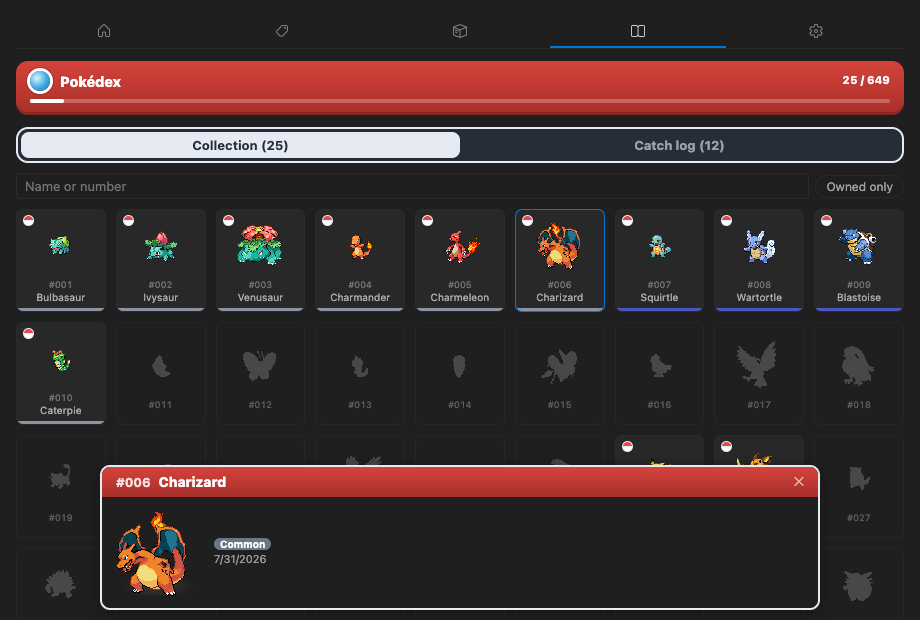
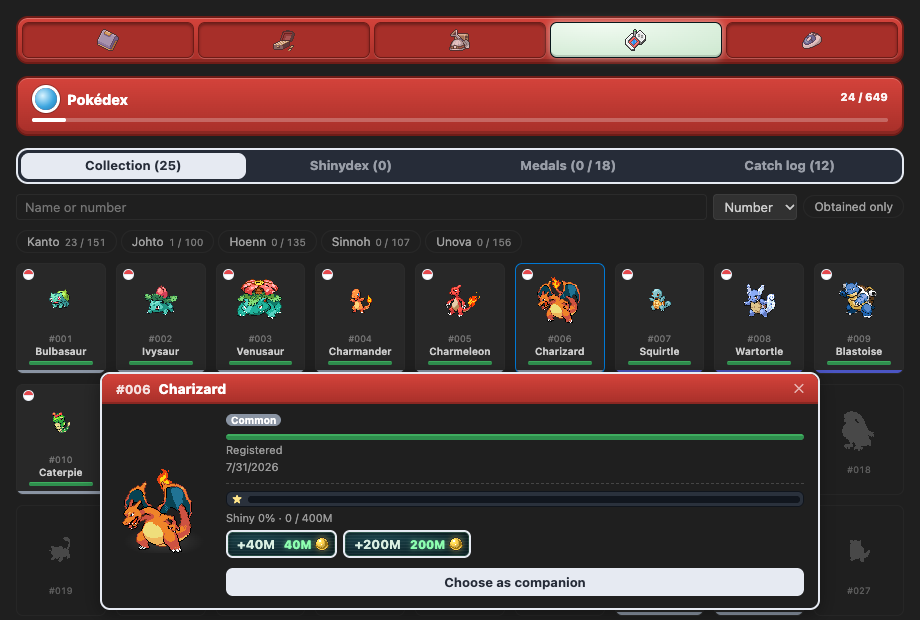
📝 Describe the species registry, the chosen companion and the unified panel in the README and walkthrough, with fresh shots

diff --git a/README.md b/README.md
@@ -29,19 +29,23 @@
 
 You already burn millions of tokens a day in Claude Code, Codex, Gemini and friends.
 **Tokendex reads those local logs — nothing is uploaded, ever — and turns the spend you
-already made into a game**: an egg incubates on real work, hatches into a companion that
-evolves through its actual evolution line, and wild Pokémon walk into your editor as you
-code. Throw a ball. Watch the wobbles. Fill the Pokédex.
+already made into a game**: pick a starter, and every token it sees is experience that
+registers its species and evolves it through its actual evolution line, while wild Pokémon
+walk into your editor as you code. Throw a ball. Watch the wobbles. Fill the Pokédex.
 
 Underneath the game sits a precise, fast usage tracker: today's tokens and cost, this
 month's, official rate-limit windows as live bars, and a per-CLI breakdown with burn rate.
 
 ## The game
 
-- 🥚 **Hatch** — your egg incubates on real token spend (5M to hatch), then evolves through
-  its species' real evolution line, stage by stage, until it graduates into your Pokédex.
-- 🎯 **Catch** — wild Pokémon appear as you work (the first after just 500k tokens), with
-  item finds — balls and berries — turning up between them. Up to 30 wait in a quiet queue: a
+- 📈 **Raise** — choose a starter from generations 1–5, then any species you have obtained
+  or an egg (a free one a day, up to three; 5M tokens to hatch). The tokens your companion
+  sees fill its species' bar: a full bar registers it in the Pokédex and evolves it into the
+  next form, and you can always go back to an earlier one. A full Pokédex is a road of one to
+  two years for an average user, with medals, regions and daily challenges along the way.
+- 🎯 **Catch** — wild Pokémon, evolved forms included, appear as you work (the first after
+  just 500k tokens); a first catch fills 5% of the species' bar, a duplicate pays tokens. With
+  item finds — balls and berries — turning up between them, up to 30 wait in a quiet queue: a
   badge counts them, and only a shiny, a legendary or a full queue ever toasts. Never an
   interruption.
 - 🧠 **Read the Pokémon** — every wild Pokémon has a nature and a temperament drawn from its
@@ -52,22 +56,24 @@ month's, official rate-limit windows as live bars, and a per-CLI breakdown with 
   computed with the Gen-IV catch formula on the species' true capture rate, and the scene says
   what a miss risks. A legendary that gets away leaves tracks you can follow for a few days —
   for a price.
-- ✨ **Get lucky** — shinies (1/64, better with the Shiny Charm), natures, a Ditto that
-  reveals itself mid-evolution, and guaranteed-tier eggs.
+- ✨ **Go shiny** — a registered species keeps earning toward its shiny form (tokens can buy
+  up to half the way), a wild or hatched shiny (1/64, better with the Shiny Charm) is one at
+  once, and a Shinydex counts them. A lure brings a species you have seen into the wild for a
+  day.
 - 🛍 **Spend what you earned** — the tokens you burn are also your wallet: Poké, Great,
-  Ultra and Master Balls and berries (ten-packs at 10% off), Rare Candy, Mints, the Shiny Charm.
-  A single ball or berry is one click; packs, eggs and the Master Ball ask first.
+  Ultra and Master Balls and berries (ten-packs at 10% off), eggs, Rare Candy, Mints, the Shiny
+  Charm. A single ball or berry is one click; packs, eggs and the Master Ball ask first.
 
 <div align="center">
 
-|                                                                                                      Raise                                                                                                      |                                                                                           Shop                                                                                           |                                                                      Your trainer                                                                       |
-| :-------------------------------------------------------------------------------------------------------------------------------------------------------------------------------------------------------------: | :--------------------------------------------------------------------------------------------------------------------------------------------------------------------------------------: | :-----------------------------------------------------------------------------------------------------------------------------------------------------: |
-| <img src="media/readme/home.png" width="260" alt="Home: your trainer and an Eevee companion on the battle field, its evolution progress, the road to the next encounter, usage totals and official limit bars"> | <img src="media/readme/shop.png" width="260" alt="The shop: Poké, Great, Ultra and Master Balls and berries, singly or in ten-packs at 10% off, priced in the tokens you already spent"> | <img src="media/readme/settings.png" width="260" alt="Settings: language, how often usage is re-read, and your trainer picked from 28 classic sprites"> |
+|                                                                                                                        Raise                                                                                                                         |                                                                                           Shop                                                                                           |                                                                      Your trainer                                                                       |
+| :--------------------------------------------------------------------------------------------------------------------------------------------------------------------------------------------------------------------------------------------------: | :--------------------------------------------------------------------------------------------------------------------------------------------------------------------------------------: | :-----------------------------------------------------------------------------------------------------------------------------------------------------: |
+| <img src="media/readme/home.png" width="260" alt="Home: the Pokédex lid with today's usage and the balance, your trainer and an Eevee companion with its experience bar and evolution line, and drawers for the incubator, the wild and the streak"> | <img src="media/readme/shop.png" width="260" alt="The shop: Poké, Great, Ultra and Master Balls and berries, singly or in ten-packs at 10% off, priced in the tokens you already spent"> | <img src="media/readme/settings.png" width="260" alt="Settings: language, how often usage is re-read, and your trainer picked from 28 classic sprites"> |
 
 </div>
 
 <div align="center">
-<img src="media/readme/dex.png" width="820" alt="The Pokédex: 25 of 649 species collected, searchable by name or number, shiny entries framed, the one being raised marked">
+<img src="media/readme/dex.png" width="820" alt="The Pokédex: 24 of 649 species registered, searchable and sortable, filtered by region, with a Charizard's card showing its registration, its shiny bar and the choice to make it your companion">
 
 <em>The Pokédex tracks every species you raise or catch — 649 to collect.</em>
 

diff --git a/media/walkthrough/game.md b/media/walkthrough/game.md
@@ -1,11 +1,14 @@
 # Hatch, evolve, catch
 
-**The egg** hatches after 5M tokens of real work. Your companion then evolves through its real
-evolution line and finally _graduates_ into your Pokédex — and a new egg arrives.
+**Your companion** is a starter you pick, then any species you have obtained or an egg (a free
+one arrives every day; it hatches after 5M tokens of real work). The tokens it sees fill its
+species' bar: a full bar _registers_ the species in your Pokédex and evolves it into the next
+form. A registered species keeps going toward its shiny form.
 
 **Wild Pokémon** appear as you work — the first one after just 500k tokens. They wait quietly
 in a queue (a badge on the Tokendex icon counts them; only a shiny or a legendary will ever
 toast, at most once per hour). When one is waiting it walks into the scene on Home: pick a
-ball, throw, and watch the wobbles. A miss can make it flee. Catches fill your Pokédex.
+ball, throw, and watch the wobbles. A miss can make it flee. A first catch obtains the species
+and fills 5% of its bar; a duplicate pays tokens.
 
 A fresh save starts with **5 Poké Balls** — the first encounter is on the house.

diff --git a/media/walkthrough/panel.md b/media/walkthrough/panel.md
@@ -2,12 +2,15 @@
 
 The panel opens from the activity bar (the Tokendex icon) or by clicking the status bar item.
 
-At the top of **Home**, your trainer stands with your companion. Below them: today's and this
-month's usage, official limit windows as bars, and the per-CLI breakdown.
+At the top of **Home** is the device's lid: your balance, and today's and this month's usage
+with lights for the official limits (open it for the details). Below, your trainer stands with
+your companion, and drawers sum up the rest in one line each: eggs, challenges, wild Pokémon,
+finds, the legendary trail, your streak and the shop.
 
 The other tabs:
 
-- **Shop** — spend your accumulated tokens on Poké Balls, Rare Candy, a Mint, the Shiny Charm
+- **Shop** — spend your accumulated tokens on Poké Balls, berries, eggs, Rare Candy, a Mint, the
+  Shiny Charm
 - **Bag** — use what you own
-- **Pokédex** — everything you have raised or caught
+- **Pokédex** — every species' registration, the Shinydex, medals and your catch history
 - **Settings** — language, your trainer sprite, save export/import
